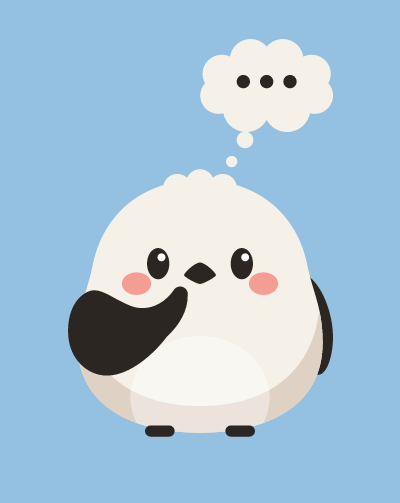
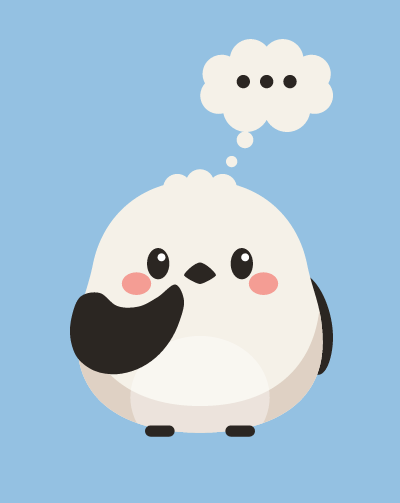
Reshape the chin wing to the design's crescent
Traced from the design: the top edge dips shallowest beside the cheek and the
wing stays thick out to its tip, instead of pinching into a knob under the beak.

diff --git a/apps/app/src/mascot/geometry.ts b/apps/app/src/mascot/geometry.ts
@@ -108,9 +108,9 @@ export const frontShapes = {
  * the box, into `headroom`.
  */
 export const thinkingShapes = {
-  /** A crescent drawn over the body and cheek, its rounded tip under the beak. Shown in place of `frontShapes.wings[0]`. */
+  /** A crescent drawn over the body below the cheek, broad at the side and as thick at its rounded tip under the beak. Shown in place of `frontShapes.wings[0]`. */
   chinWing:
-    "M92.6 95.5 C 92.8 104, 88 113, 80 120.3 C 72 131, 58 143, 45 143.5 C 33 144, 22 134, 21 120 C 20 108, 24 97, 33 93 C 40 90, 47 97, 58 101.5 C 68 105.5, 78 101, 84 92.5 A 4.6 4.6 0 0 1 92.6 95.5 Z",
+    "M90.4 98.5 C 90.8 102.2, 89 107.1, 87.6 111.2 C 86.2 115.3, 84.3 119.3, 81.9 122.9 C 79.5 126.5, 76.6 130, 73.3 132.8 C 70.1 135.6, 66.3 138, 62.3 139.7 C 58.4 141.3, 53.9 142.5, 49.7 142.7 C 45.4 142.8, 40.7 142.3, 36.9 140.7 C 33 139.1, 29 136.2, 26.5 132.9 C 24.1 129.6, 22.8 124.9, 22.2 120.8 C 21.6 116.6, 22.1 112, 23.1 107.8 C 24.1 103.7, 25.6 98.3, 28.4 96 C 31.2 93.7, 36.3 93, 39.9 93.9 C 43.6 94.9, 46.4 100.3, 50.3 101.7 C 54.1 103.1, 58.9 103, 63 102.1 C 67 101.3, 70.9 98.6, 74.6 96.4 C 78.3 94.1, 82.6 88.5, 85.2 88.8 C 87.8 89.2, 90 94.8, 90.4 98.5 Z",
   /** Puffs between the head and the bubble, smallest first. */
   trail: [
     { cx: 119, cy: 15, r: 3.4 },
